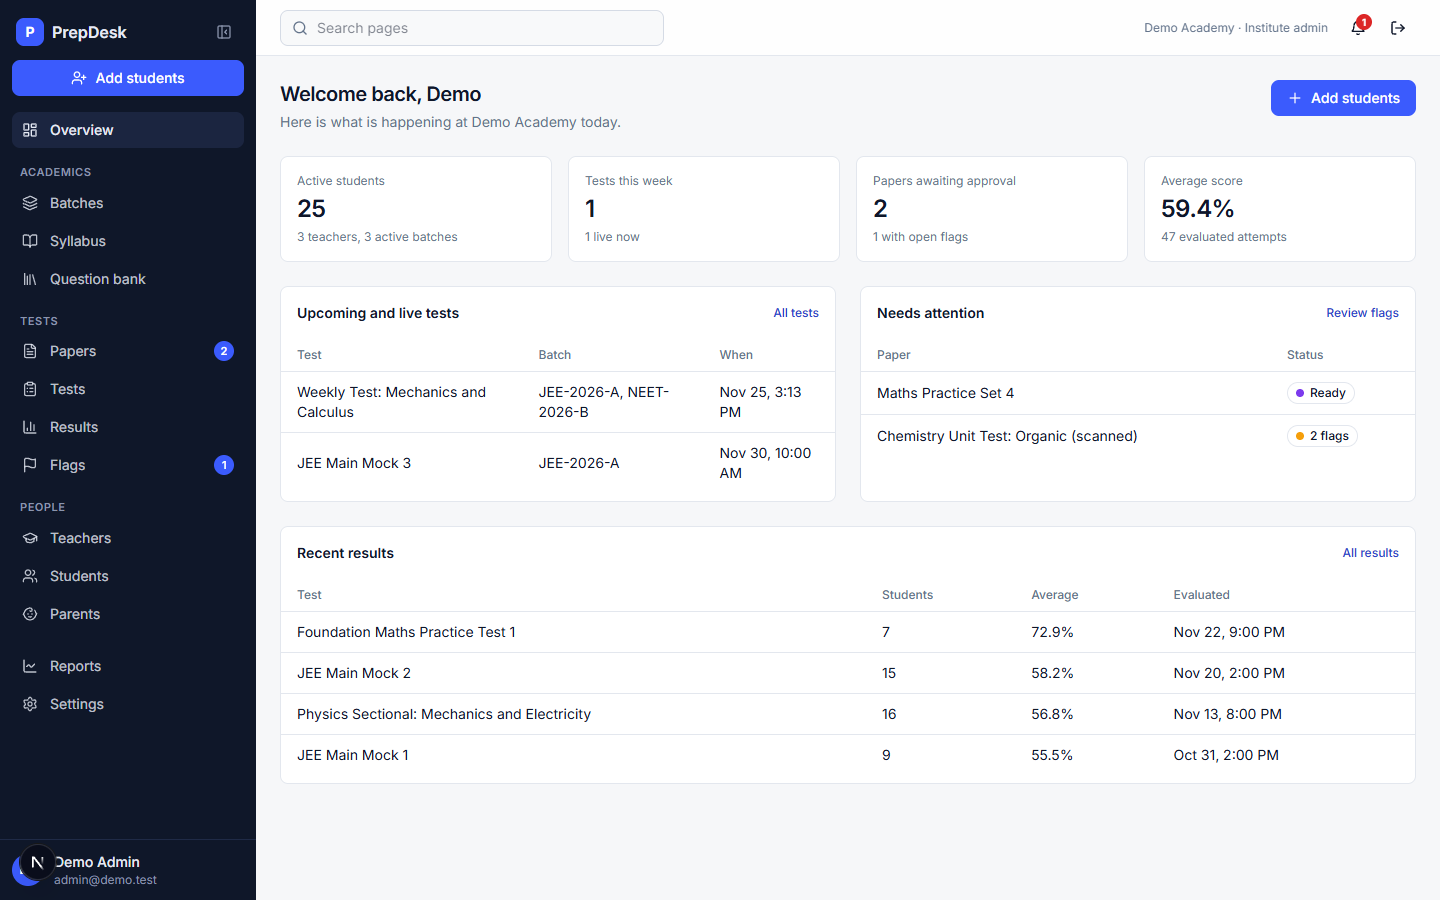
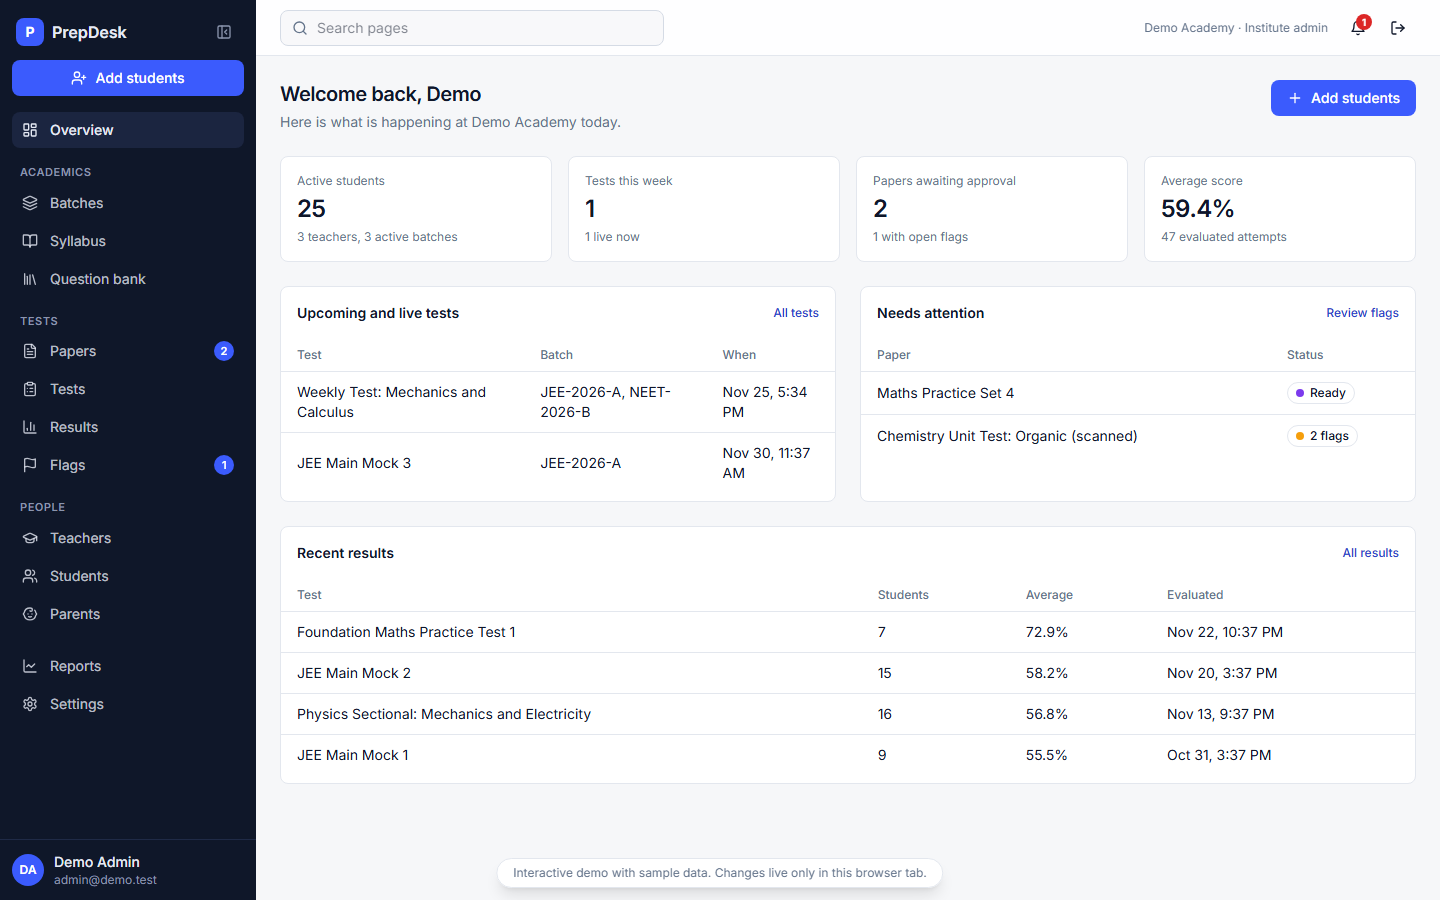
Fresh landing previews, demo screens spec

diff --git a/e2e/tests/72-demo-screens.spec.ts b/e2e/tests/72-demo-screens.spec.ts
@@ -1,0 +1,23 @@
+import { test } from "@playwright/test";
+import path from "node:path";
+import { fileURLToPath } from "node:url";
+const OUT = path.resolve(path.dirname(fileURLToPath(import.meta.url)), "../../apps/web/public/landing");
+const SHOTS = process.env.SHOTS_DIR ?? path.resolve(OUT, "../../../../demo/screenshots");
+
+/** Screens of the hosted demo (run with WEB_URL=http://localhost:3456). SHOTS_DIR overrides where they go. */
+test("landing, login and role dashboards", async ({ page }) => {
+  test.setTimeout(180_000);
+  await page.goto("/", { waitUntil: "networkidle" });
+  await page.screenshot({ path: path.join(SHOTS, "d-landing.png"), fullPage: true });
+  await page.goto("/login", { waitUntil: "networkidle" });
+  await page.screenshot({ path: path.join(SHOTS, "d-login.png") });
+  for (const [who, p, name] of [["admin", "/admin", "admin"], ["student", "/student/tests/results", "result"], ["teacher", "/teacher/attendance", "attendance"], ["parent", "/parent", "parent"]] as const) {
+    await page.context().clearCookies();
+    await page.goto("/login", { waitUntil: "networkidle" });
+    await page.getByRole("region", { name: "Demo accounts" }).getByRole("button", { name: new RegExp("^" + (who === "admin" ? "Institute admin" : who), "i") }).click();
+    await page.waitForURL((u) => !u.pathname.startsWith("/login"));
+    await page.goto(p, { waitUntil: "networkidle" });
+    await page.waitForTimeout(600);
+    await page.screenshot({ path: path.join(SHOTS, `d-${name}.png`) });
+  }
+});
